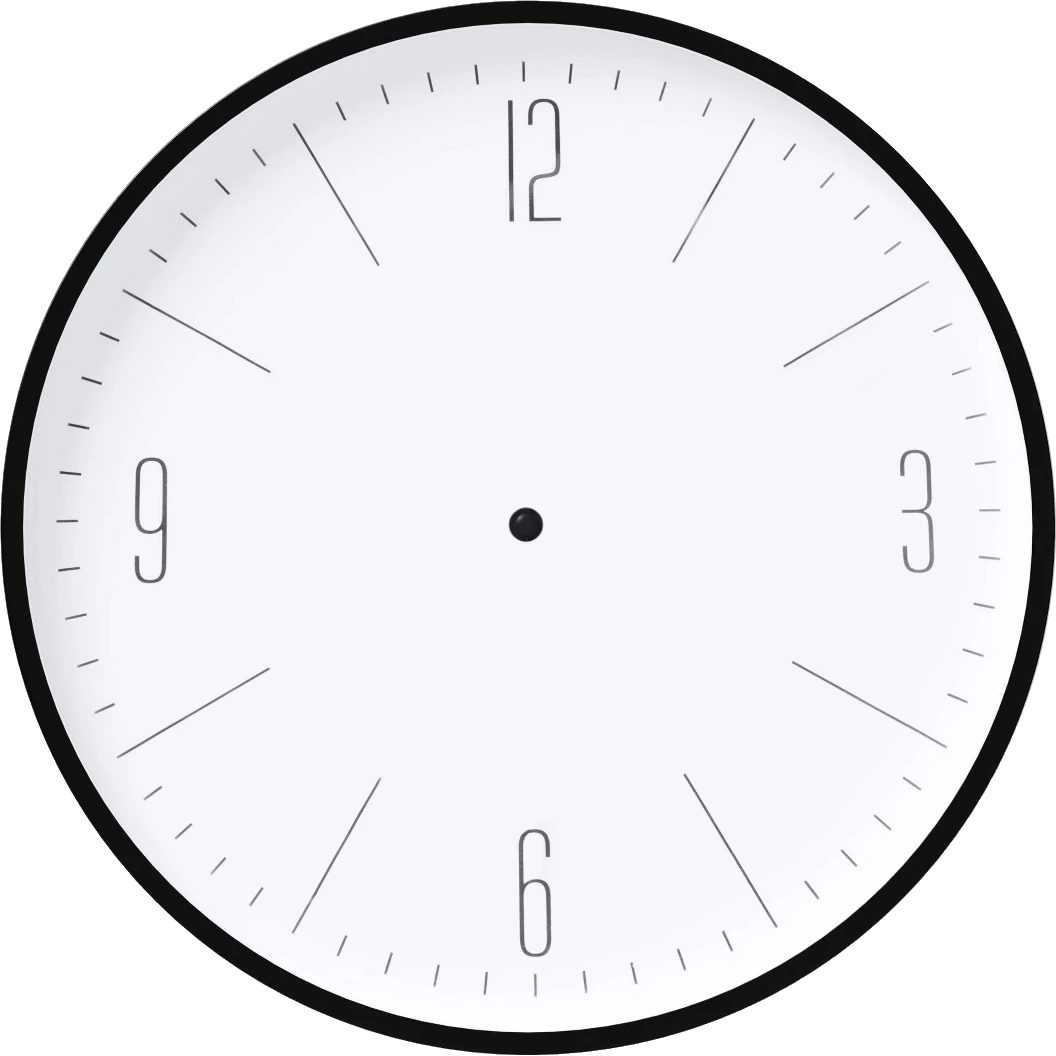
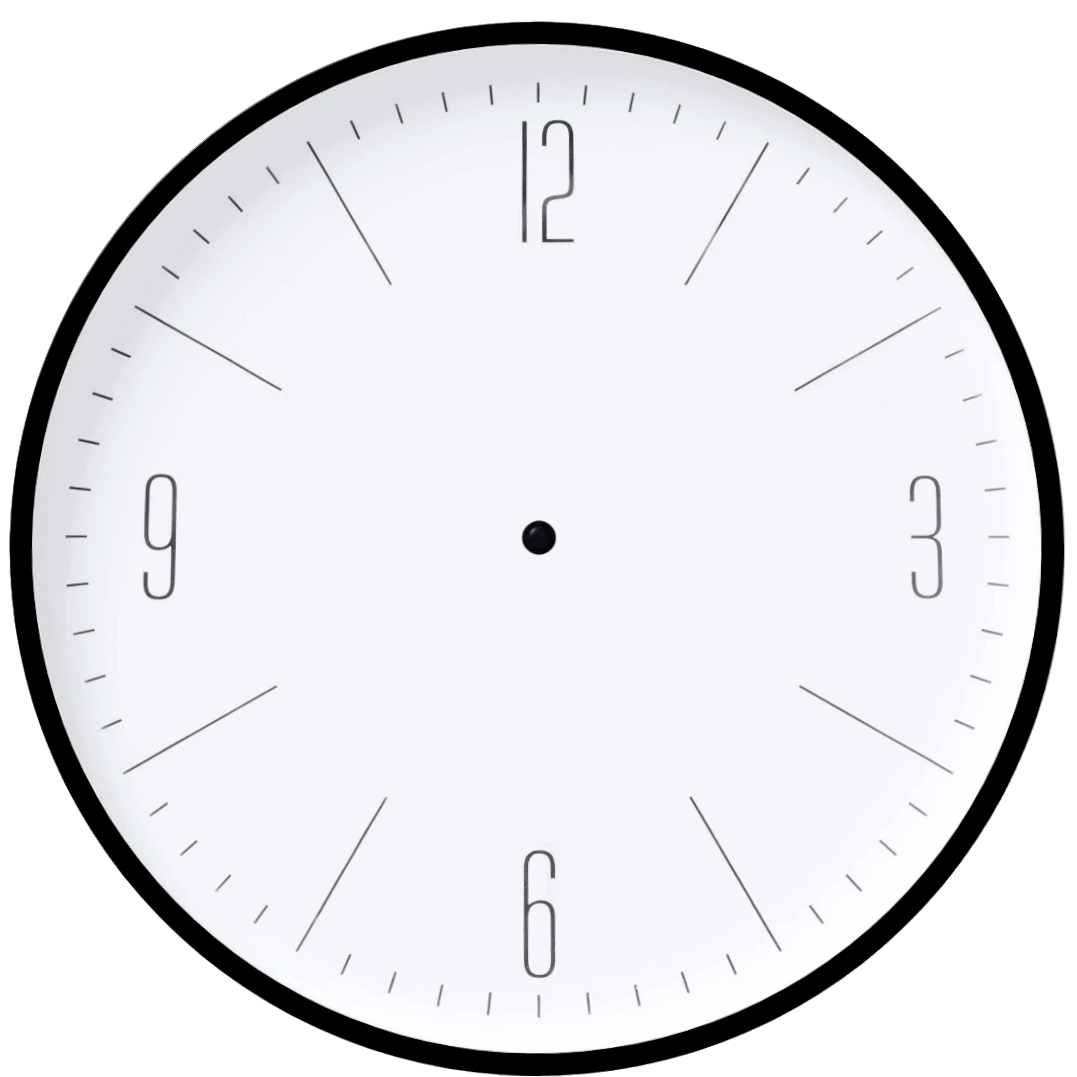
✨ Few graphical adjustments on the thin clock.

diff --git a/src/web/js/date.js b/src/web/js/date.js
@@ -10,7 +10,7 @@ ConkW.clockFaces = [
         forwardLength: 0.6,
         backLength: 0.18,
         width: 0.008,
-        color: "black"
+        color: "#25272b"
       },
       shadowOffset: 0.02,
       shadowSpread: 0.00,
@@ -23,7 +23,7 @@ ConkW.clockFaces = [
         forwardLength: 0.76,
         backLength: 0.18,
         width: 0.008,
-        color: "black"
+        color: "#25272b"
       },
       shadowOffset: 0.025,
       shadowSpread: 0.00,
